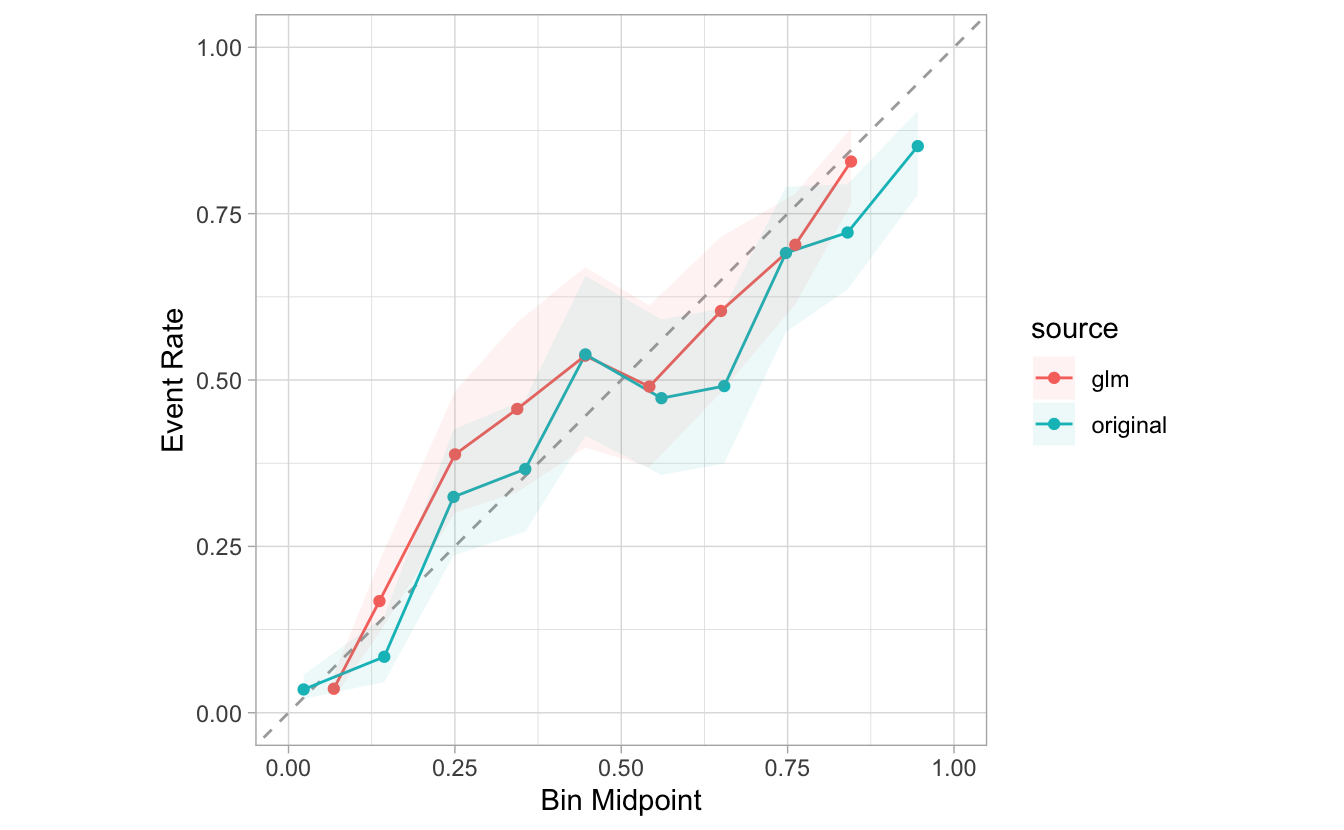
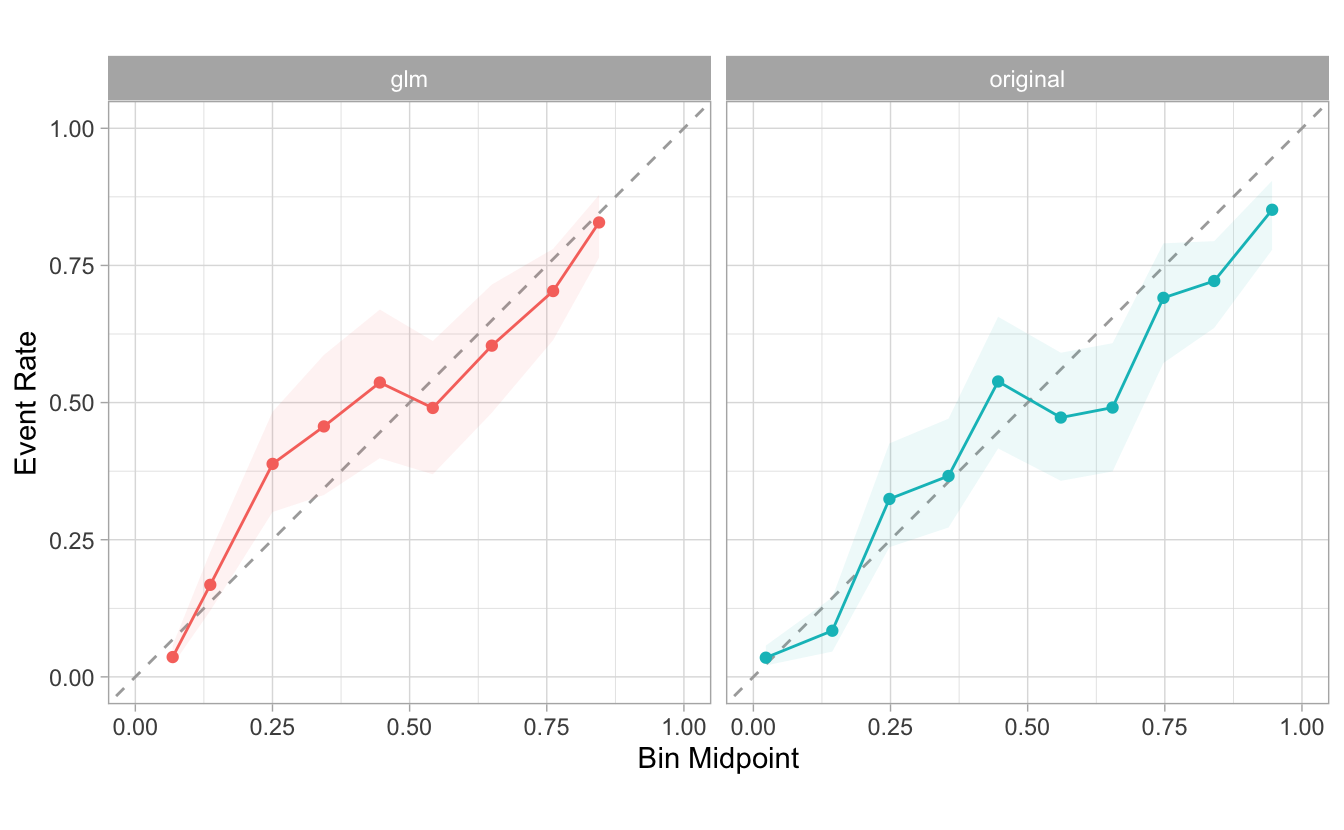
Integration with Tune, Preparing for the next stage, and Conclusion sections

diff --git a/content/blog/model-calibration/index.md b/content/blog/model-calibration/index.md
@@ -15,7 +15,7 @@ photo:
 
 categories: [package]
 tags: [model, plots]
-rmd_hash: df03812658d044be
+rmd_hash: 305c2b8c98b07a0c
 
 ---
 
@@ -34,7 +34,7 @@ TODO:
 
 I am very excited to introduce work currently underway. We are looking to create early awareness, and to receive feedback from the community. That is why the enhancements discussed here are not yet in CRAN. As probably inferred by the title and description, the work centers around bringing Model Calibration to Tidymodels.
 
-Even though the article is meant to introduce new package functionality. We also have the goal of introducing Model Calibration conceptually. The idea is to encourage everyone who may have use for it to try it out, even though this may be the first time that you read about Model Calibration. So, if you are already familiar with Model Calibration, feel free to skip to the [Setup](#setup) section to get started.
+Even though the article is meant to introduce new package functionality. We also have the goal of introducing Model Calibration conceptually. We want to provide sufficient background for those who may not be familiar with Model Calibration. If you are already familiar with this technique, feel free to skip to the [Setup](#setup) section to get started.
 
 ## Model Calibration
 
@@ -253,6 +253,10 @@ This can layer can be removed by setting `include_rug` to `FALSE`:
 
 ## Integration with `tune`
 
+The calibration plots in `probably` support `tune_results` objects. The functions read the metadata from the `tune` object, and the `truth` and `estimate` arguments automatically.
+
+To showcase this feature, we will tune a model based on simulated data. In order for the calibration plot to work, the predictions need to be collected. This is done by setting `save_pred` to `TRUE`.
+
 <div class="highlight">
 
 <pre class='chroma'><code class='language-r' data-lang='r'><span><span class='kr'><a href='https://rdrr.io/r/base/library.html'>library</a></span><span class='o'>(</span><span class='nv'><a href='https://tidymodels.tidymodels.org'>tidymodels</a></span><span class='o'>)</span></span>
@@ -268,10 +272,18 @@ This can layer can be removed by setting `include_rug` to `FALSE`:
 <span>  object <span class='o'>=</span> <span class='nf'>set_engine</span><span class='o'>(</span><span class='nf'>logistic_reg</span><span class='o'>(</span><span class='o'>)</span>, <span class='s'>"glm"</span><span class='o'>)</span>,</span>
 <span>  preprocessor <span class='o'>=</span> <span class='nv'>rec</span>,</span>
 <span>  resamples <span class='o'>=</span> <span class='nf'>vfold_cv</span><span class='o'>(</span><span class='nv'>sim_data</span>, v <span class='o'>=</span> <span class='m'>2</span>, repeats <span class='o'>=</span> <span class='m'>3</span><span class='o'>)</span>,</span>
+<span>  </span>
+<span>  <span class='c'># Important: `saved_pred` has to be set to TRUE in order for </span></span>
+<span>  <span class='c'>#the plotting to be possible</span></span>
+<span>  </span>
 <span>  control <span class='o'>=</span> <span class='nf'>control_resamples</span><span class='o'>(</span>save_pred <span class='o'>=</span> <span class='kc'>TRUE</span><span class='o'>)</span></span>
-<span><span class='o'>)</span></span></code></pre>
+<span><span class='o'>)</span></span>
+<span></span>
+<span><span class='nv'>tuned_model</span></span></code></pre>
 
 </div>
+
+The plotting functions will automatically collect the predictions. Each of the pre-processing groups will be plotted individually in its own facet.
 
 <div class="highlight">
 
@@ -280,7 +292,11 @@ This can layer can be removed by setting `include_rug` to `FALSE`:
 
 </div>
 
-## Getting ready for the next stage
+## Preparing for the next stage
+
+As mentioned in the outset of this post, the goal is to also provide a way to calibrate the model, and to apply the calibration to future predictions. We have made sure that the plotting functions are ready now to accept multiple probability sets.
+
+In this post, we will showcase that functionality by "manually" creating a quick calibration model, we we can use it to compare to the original probabilities. We will need both of them to be on the same data frame, and to have a way of distinguishing the original probabilities from the calibrated probabilities. In this case we will create a variable called `source`:
 
 <div class="highlight">
 
@@ -311,6 +327,8 @@ This can layer can be removed by setting `include_rug` to `FALSE`:
 
 </div>
 
+The new plot functions support `dplyr` groupings. So, to overlay the two groups, we just need to pass `source` to [`group_by()`](https://dplyr.tidyverse.org/reference/group_by.html):
+
 <div class="highlight">
 
 <pre class='chroma'><code class='language-r' data-lang='r'><span><span class='nv'>combined</span> <span class='o'><a href='https://magrittr.tidyverse.org/reference/pipe.html'>%&gt;%</a></span></span>
@@ -321,15 +339,27 @@ This can layer can be removed by setting `include_rug` to `FALSE`:
 
 </div>
 
+If we would like to plot them side by side, we can add [`facet_wrap()`](https://ggplot2.tidyverse.org/reference/facet_wrap.html) as an additional step of the plot:
+
 <div class="highlight">
 
-<pre class='chroma'><code class='language-r' data-lang='r'><span><span class='nv'>combined</span> <span class='o'><a href='https://magrittr.tidyverse.org/reference/pipe.html'>%&gt;%</a></span> </span>
+<pre class='chroma'><code class='language-r' data-lang='r'><span><span class='kr'><a href='https://rdrr.io/r/base/library.html'>library</a></span><span class='o'>(</span><span class='nv'><a href='https://ggplot2.tidyverse.org'>ggplot2</a></span><span class='o'>)</span></span>
+<span></span>
+<span><span class='nv'>combined</span> <span class='o'><a href='https://magrittr.tidyverse.org/reference/pipe.html'>%&gt;%</a></span> </span>
 <span>  <span class='nf'><a href='https://dplyr.tidyverse.org/reference/group_by.html'>group_by</a></span><span class='o'>(</span><span class='nv'>source</span><span class='o'>)</span> <span class='o'><a href='https://magrittr.tidyverse.org/reference/pipe.html'>%&gt;%</a></span> </span>
-<span>  <span class='nf'><a href='https://probably.tidymodels.org/reference/cal_plot_breaks.html'>cal_plot_breaks</a></span><span class='o'>(</span><span class='nv'>Class</span>, <span class='nv'>.pred_good</span><span class='o'>)</span></span>
+<span>  <span class='nf'><a href='https://probably.tidymodels.org/reference/cal_plot_breaks.html'>cal_plot_breaks</a></span><span class='o'>(</span><span class='nv'>Class</span>, <span class='nv'>.pred_good</span><span class='o'>)</span> <span class='o'>+</span></span>
+<span>  <span class='nf'><a href='https://ggplot2.tidyverse.org/reference/facet_wrap.html'>facet_wrap</a></span><span class='o'>(</span><span class='o'>~</span><span class='nv'>source</span><span class='o'>)</span> <span class='o'>+</span></span>
+<span>  <span class='nf'><a href='https://ggplot2.tidyverse.org/reference/theme.html'>theme</a></span><span class='o'>(</span>legend.position <span class='o'>=</span> <span class='s'>"none"</span><span class='o'>)</span></span>
 </code></pre>
 <img src="figs/unnamed-chunk-20-1.png" width="700px" style="display: block; margin: auto;" />
 
 </div>
+
+Our goal in the future is to provide calibration functions that create the models, and provide an easy way to visualize.
+
+## Conclusion
+
+As mentioned at the top of this post. We look forward to your feedback as you try out these features, and read about our plans for the new future. If you wish to send us your thoughts, feel free to open an issue in `probably`'s GitHub repo here: <https://github.com/tidymodels/probably/issues>.
 
 [^1]: We can think of an **event** as the outcome that is being tracked by the probability. For example, in a model predicting "heads" or "tails", and we want to calibrate the probability for "tails", then the **event** is when the column containing the outcome, has the value of "tails".
 
